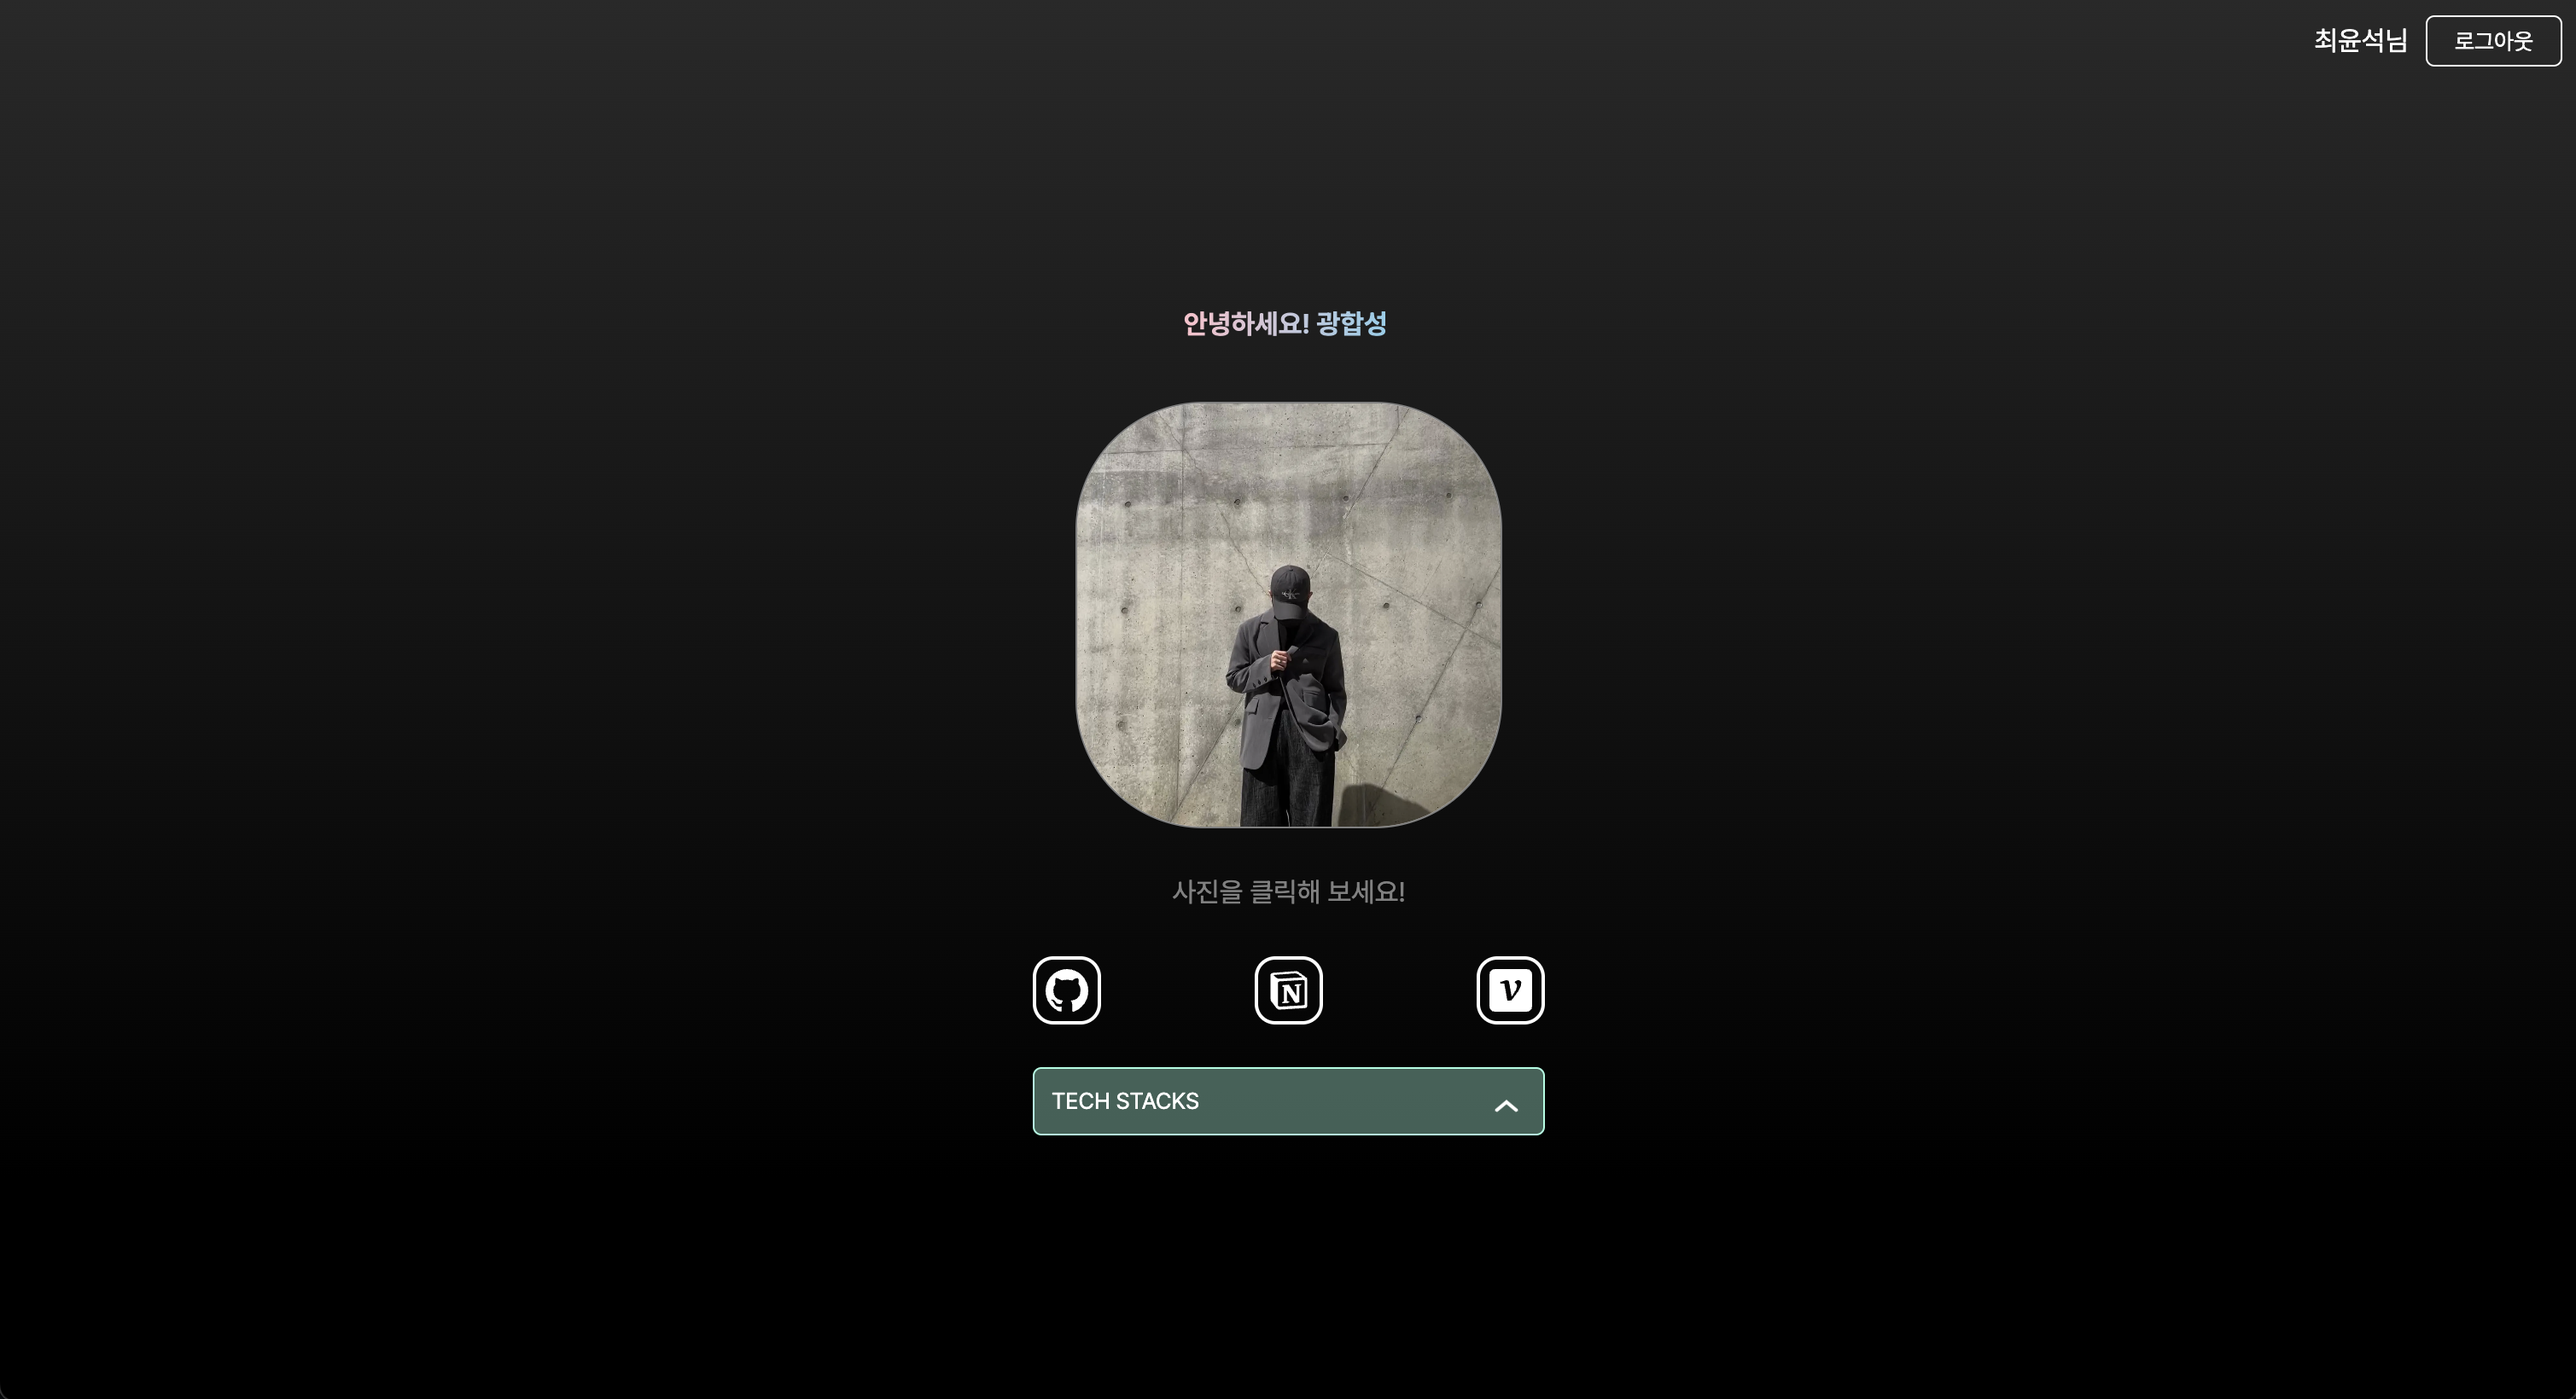
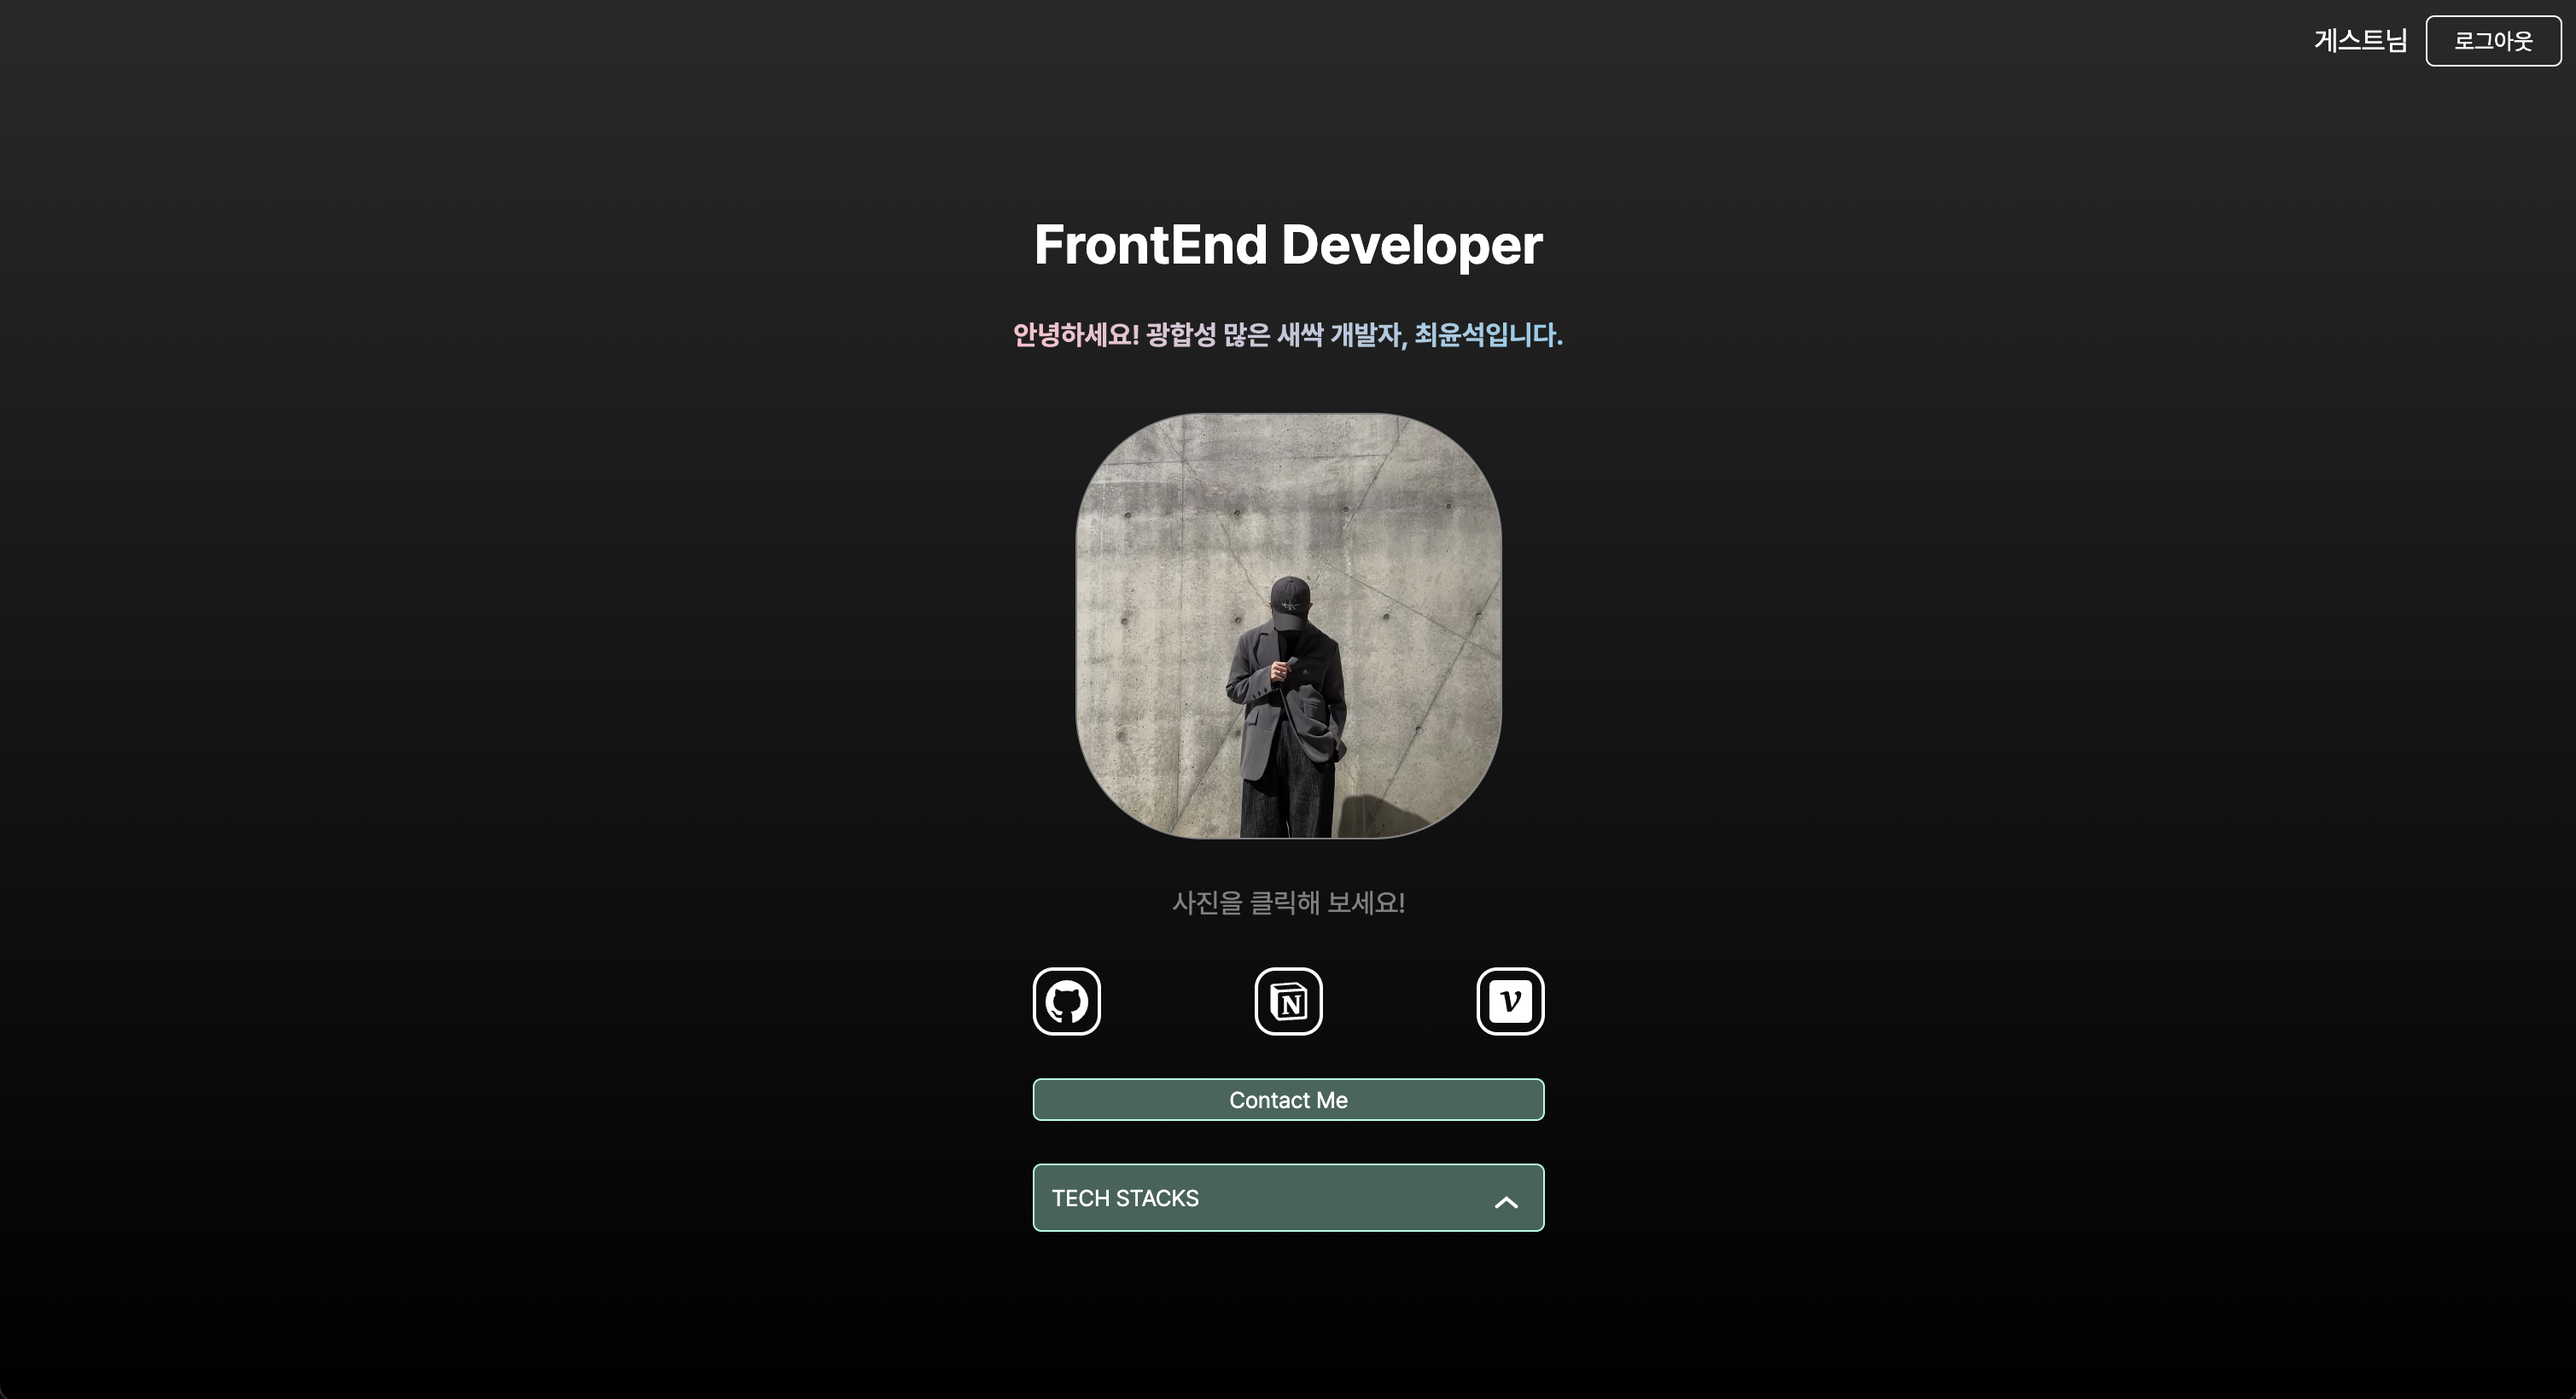
[docs]README 생성

diff --git a/README.md b/README.md
@@ -1,36 +1,36 @@
-This is a [Next.js](https://nextjs.org/) project bootstrapped with [`create-next-app`](https://github.com/vercel/next.js/tree/canary/packages/create-next-app).
+# My Portfolio
 
-## Getting Started
+나를 소개하는 포트폴리오 사이트
 
-First, run the development server:
+## 🙇 프로젝트 소개
 
-```bash
-npm run dev
-# or
-yarn dev
-# or
-pnpm dev
-# or
-bun dev
-```
+저의 기술스택과 여태까지 진행한 프로젝트를 소개하는 포트폴리오 사이트입니다.
 
-Open [http://localhost:3000](http://localhost:3000) with your browser to see the result.
+## ⏱ 개발 기간
 
-You can start editing the page by modifying `app/page.tsx`. The page auto-updates as you edit the file.
+- 2024.05.02 ~ 2024.05.14+ (13+일)
 
-This project uses [`next/font`](https://nextjs.org/docs/basic-features/font-optimization) to automatically optimize and load Inter, a custom Google Font.
+## 👨 구성 인원
 
-## Learn More
+- 개인 프로젝트
 
-To learn more about Next.js, take a look at the following resources:
+## ⚙ 기술 스택
 
-- [Next.js Documentation](https://nextjs.org/docs) - learn about Next.js features and API.
-- [Learn Next.js](https://nextjs.org/learn) - an interactive Next.js tutorial.
+- Next.js
+- TypeScript
+- Emotion
+- Zustand
 
-You can check out [the Next.js GitHub repository](https://github.com/vercel/next.js/) - your feedback and contributions are welcome!
+## 📍 주요 기능
 
-## Deploy on Vercel
+#### 1⃣ 입장 시 이름 입력이 필요하며 입력 후 애니메이션 동작 후 메인페이지를 볼 수 있습니다.
 
-The easiest way to deploy your Next.js app is to use the [Vercel Platform](https://vercel.com/new?utm_medium=default-template&filter=next.js&utm_source=create-next-app&utm_campaign=create-next-app-readme) from the creators of Next.js.
+<img src="src/app/assets/projectImages/myPortfolio/image5.png" />
 
-Check out our [Next.js deployment documentation](https://nextjs.org/docs/deployment) for more details.
+#### 2⃣ 메인 페이지에서 저의 깃헙, 노션, 벨로그 주소로 링크이동할 수 있고, 이메일(Contact Me) 주소 및 기술 스택을 볼 수 있게 구현하였습니다. 사진 클릭 시 프로젝트 기록들이 있는 주소로 이동됩니다.
+
+<img src="src/app/assets/projectImages/myPortfolio/image1.png" />
+
+#### 3⃣ 메인 페이지에서 사진 클릭 시 프로젝트 타임라인 페이지로 라우팅되며 여기서 타임라인 버튼들을 눌러 제가 만든 프로젝트들의 설명을 볼 수 있게 구현하였습니다.
+
+<img src="src/app/assets/projectImages/myPortfolio/image7.png" />
